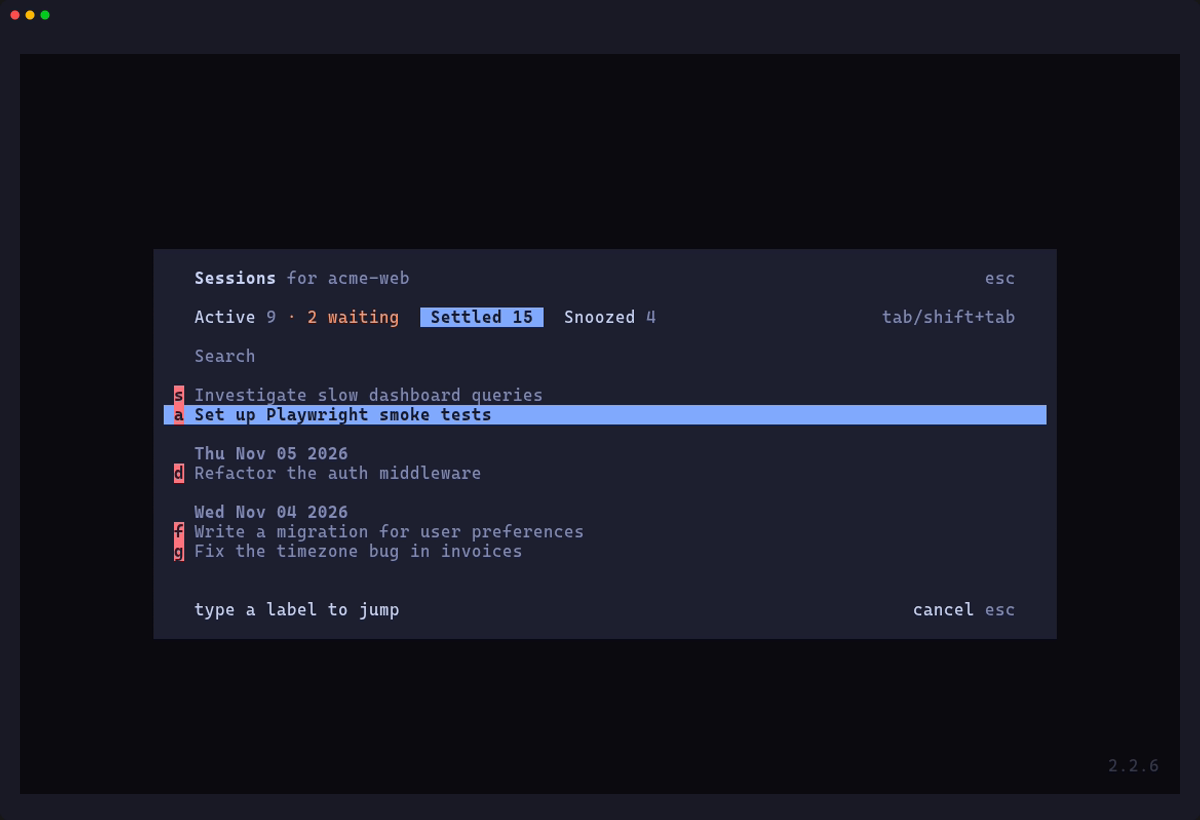
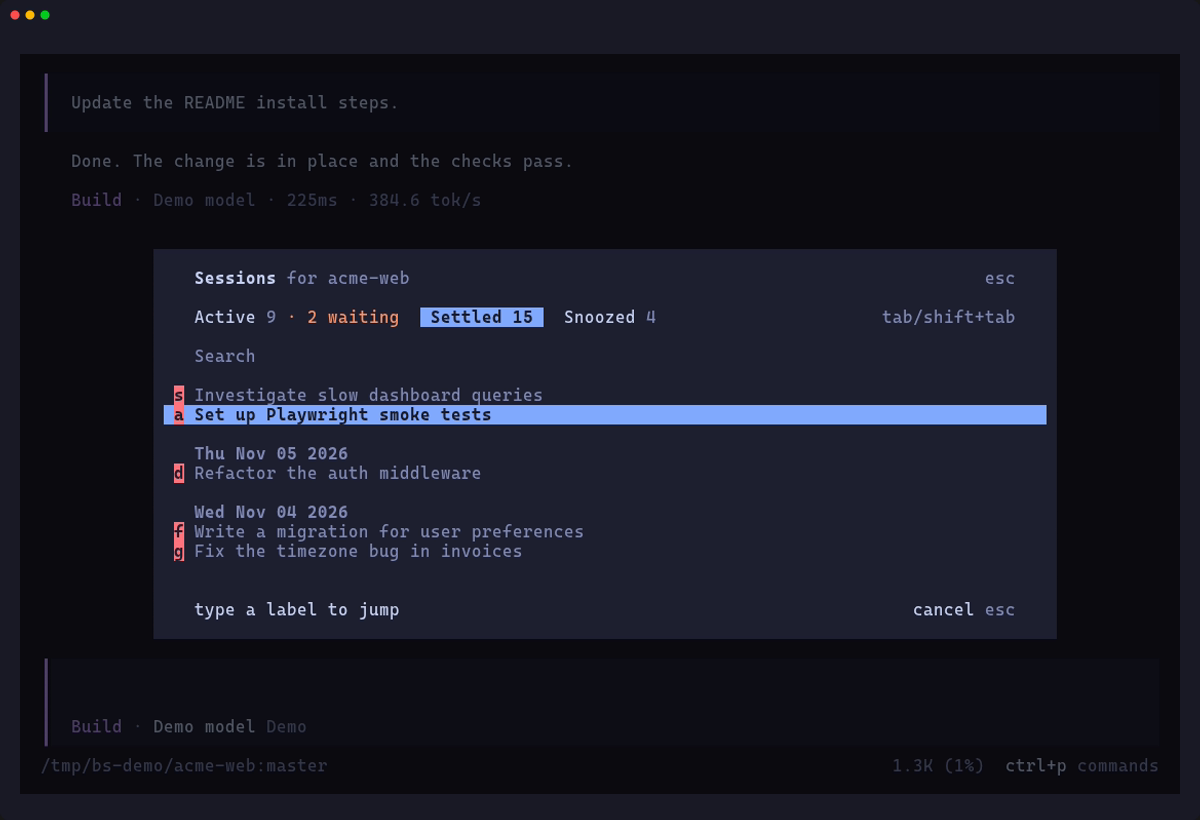
Jump labels open the session
Typing a jump label now picks that row, like return on it: the session list opens the session and the snooze menu applies the snooze time. Re-recorded the jump demo.

diff --git a/src/select.tsx b/src/select.tsx
@@ -339,7 +339,7 @@ export function Select<T>(props: SelectProps<T>) {
     scroll.scrollTo(next.top)
   }
 
-  // Jump labels (flash.nvim): every visible row gets a label; typing it moves the selection there.
+  // Jump labels (flash.nvim): every visible row gets a label; typing it picks that row.
   const [jumpLabels, setJumpLabels] = createSignal<readonly { value: T; label: string }[]>()
   const labelOf = (value: T) => jumpLabels()?.find((item) => same(item.value, value))?.label
 
@@ -363,7 +363,10 @@ export function Select<T>(props: SelectProps<T>) {
       stopJump()
       if (!hit) return
       const index = focusIndex(hit.value)
-      if (index >= 0) moveTo(index)
+      if (index < 0) return
+      // A label picks its row, like return on it: the session list opens the session, the snooze menu snoozes.
+      moveTo(index)
+      submit()
       return
     }
     // Any other key ends the jump and then does what it always does (move, settle, open, switch tab, ...).

diff --git a/demo/tapes.py b/demo/tapes.py
@@ -94,33 +94,25 @@ Sleep 3s
 Sleep 1s
 Ctrl+S
 Sleep 1.5s
+Ctrl+S
+Sleep 2.2s
+Type "f"
+Sleep 3s
+Ctrl+S
+Sleep 1.5s
 Tab
 Sleep 1.5s
 Ctrl+D
 Sleep 1.2s
 Ctrl+D
 Sleep 1.2s
-Ctrl+D
-Sleep 1.2s
-Ctrl+U
-Sleep 1.2s
 Ctrl+U
 Sleep 1.5s
 Ctrl+S
-Sleep 2s
+Sleep 2.2s
 Screenshot {out}/jump-labels.png
-Type "g"
-Sleep 1.5s
-Ctrl+S
-Sleep 1.5s
-Type "d"
-Sleep 1.5s
-Shift+Tab
-Sleep 1.5s
-Ctrl+S
-Sleep 2s
-Type "f"
-Sleep 2s
+Type "s"
+Sleep 3s
 """),
     "message": ("default", """
 Sleep 1s

diff --git a/README.md b/README.md
@@ -71,11 +71,11 @@ background stays snoozed.
 
 - **Jump** (`ctrl+s`): labels every visible row, like folke/flash.nvim's
   `jump({ search = { mode = "search", max_length = 0 }, label = { after = { 0, 0 } }, pattern = "^" })`. Type a
-  label to move the selection to that row. Labels use flash's order: `asdfghjklqwertyuiopzxcvbnm`, then the same
+  label to open that session, as if you had moved to it and pressed `return`. Labels use flash's order: `asdfghjklqwertyuiopzxcvbnm`, then the same
   letters in uppercase, handed out by distance from the selected row (the selected row gets `a`, then rows
   alternate below and above, below first). The rest of the list dims while labels are shown. `esc` or `ctrl+s`
   again cancels. A letter that is not a label just ends the jump; other keys (arrows, `return`, `ctrl+e`, ...)
-  end it and then do what they always do. Jump also works in the snooze menu. Pressing the `session.list` key
+  end it and then do what they always do. In the snooze menu a label picks that snooze time. Pressing the `session.list` key
   while the list is open toggles labels too, instead of reopening the list.
 - `ctrl+d` / `ctrl+u`: half page down / up, like vim. The list scrolls by half its height and the selection
   moves the same number of lines; at either end the selection keeps moving until the first or last row.
@@ -122,7 +122,7 @@ session" palette entry or `/sessions`. Disable it with `"-better-sessions"` in `
 | `ctrl+x` (twice)        | Delete                                          | `delete`                      |
 | `ctrl+r`                | Rename                                          | `session.rename` keybind      |
 | `ctrl+f`                | Pin / unpin                                     | `session.pin.toggle` keybind  |
-| `ctrl+s`                | Jump labels                                     | `jump`                        |
+| `ctrl+s`, then a label  | Open the labeled session                        | `jump`                        |
 | `ctrl+d` / `ctrl+u`     | Half page down / up                             | `halfPageDown` / `halfPageUp` |
 | `return`                | Open the session                                |                               |
 | `esc`                   | Cancel jump labels, or close                    |                               |
